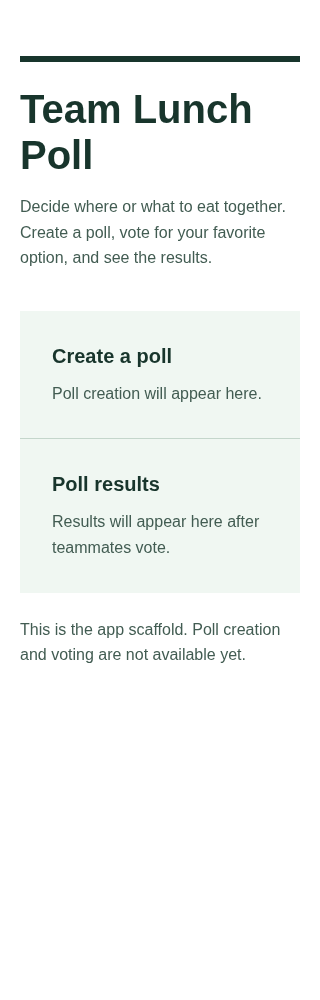
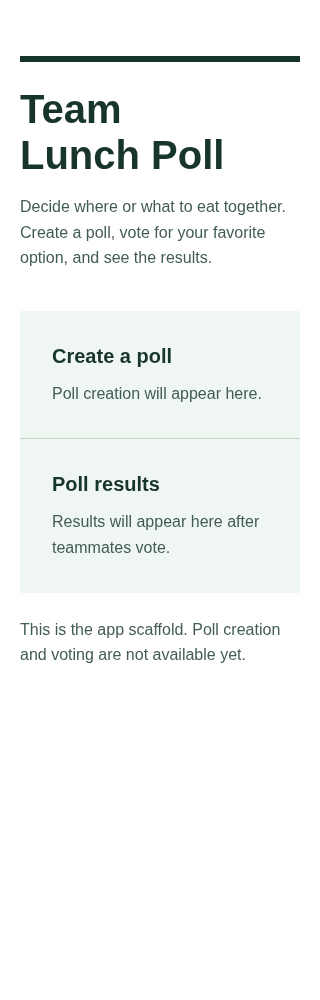
fix: refine scaffold text wrapping after frontend review

Changed region(s): [[0.0938, 0.093, 0.7812, 0.186]]

diff --git a/src/style.css b/src/style.css
@@ -30,9 +30,11 @@ h1 {
   line-height: 1.15;
   margin: 0 0 1rem;
   overflow-wrap: anywhere;
+  text-wrap: balance;
 }
 
 h2 {
+  text-wrap: balance;
   font-size: 1.25rem;
   line-height: 1.3;
   margin: 0 0 0.75rem;
@@ -44,7 +46,7 @@ p {
 }
 
 header p {
-  max-width: 65ch;
+  max-width: 48ch;
 }
 
 .workspace {

diff --git a/docs/scaffold-validation.md b/docs/scaffold-validation.md
@@ -49,6 +49,18 @@ These screenshots show the production preview after its required text appeared:
 - [Mobile shell](screenshots/lunch-poll-scaffold-mobile.png): 320px viewport.
 - [Browser zoom](screenshots/lunch-poll-scaffold-zoom.png): native 200% zoom.
 
+## Frontend review corrections
+
+Frontend review required a shorter description measure and balanced heading wraps.
+The original `65ch` measure allowed 83 actual characters on the first desktop line.
+A temporary browser range check reproduced that limit error and the single-word mobile title line before the repair.
+The description now uses `48ch`, and headings use `text-wrap: balance`.
+The same range check then passed at 320, 720, and 1440 CSS pixels.
+The longest description line is now 58 characters at the tested desktop widths.
+At 320px, the title wraps as “Team” and “Lunch Poll”, without a single-word final line.
+The full development, preview, and native-zoom inspections passed again, and all reference screenshots are current.
+The written specification's character limit takes precedence over the mockup's original `65ch` implementation.
+
 ## Decisions and limits
 
 - Use direct checks instead of static-text tests, as required by the approved Testing Value Gate.
